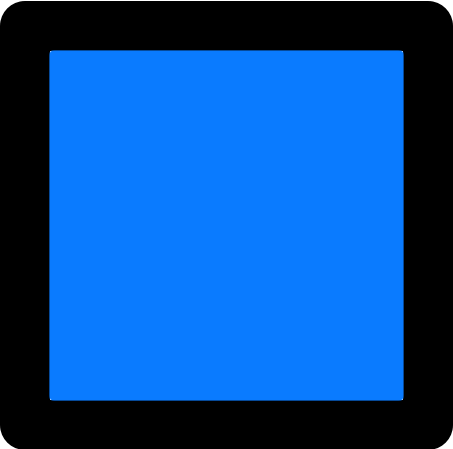
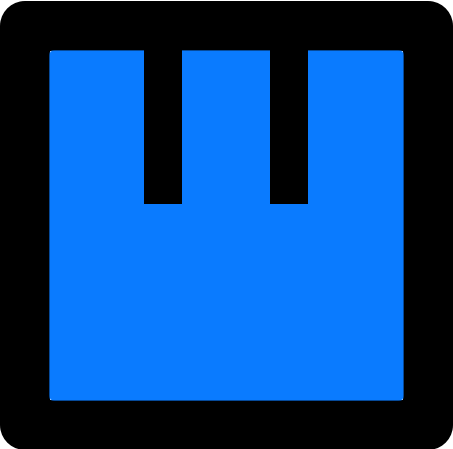
The robot can now turn items that it carries

Changed region(s): [[0.5872, 0.0935, 0.6799, 0.4677], [0.3091, 0.0935, 0.4018, 0.4677]]

diff --git a/js/simulator.js b/js/simulator.js
@@ -93,6 +93,26 @@ class Robot extends SimElem {
     })
   }
 
+  turnCarriedItem(direction) {
+    if (!this.carry) {
+      console.error("Robot is not currently holding an item!");
+      return;
+    }
+    var item = this.carry;
+    if (direction == "right") {
+      item.turned += 90;
+    }
+    else {
+      item.turned -= 90;
+    }
+    anime({
+            targets: item.domElem,
+            rotate: item.turned + 'deg',
+            easing : 'linear',
+            round: 1
+      })
+  }
+
   placeAtStation(station, side) {
     if (!robot.isAtStation(station)) {
       console.error("Robot is not correctly positioned to place item at this station!");
@@ -217,6 +237,7 @@ class Station extends SimElem {
 
 class Item extends SimElem {
   color = "white";
+  turned = 0;
 
   constructor(simDiv, posX, posY, color) {
     var domElem = document.createElement("img");
